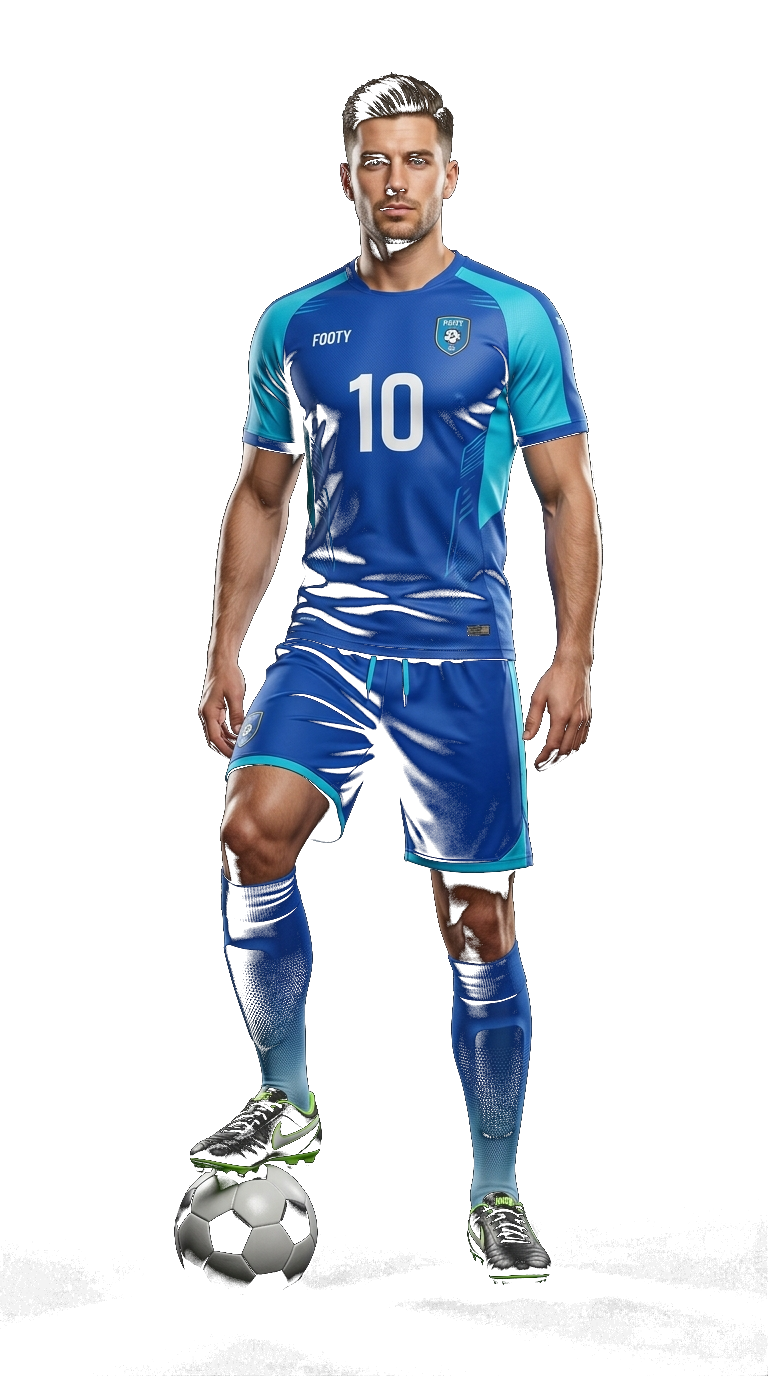
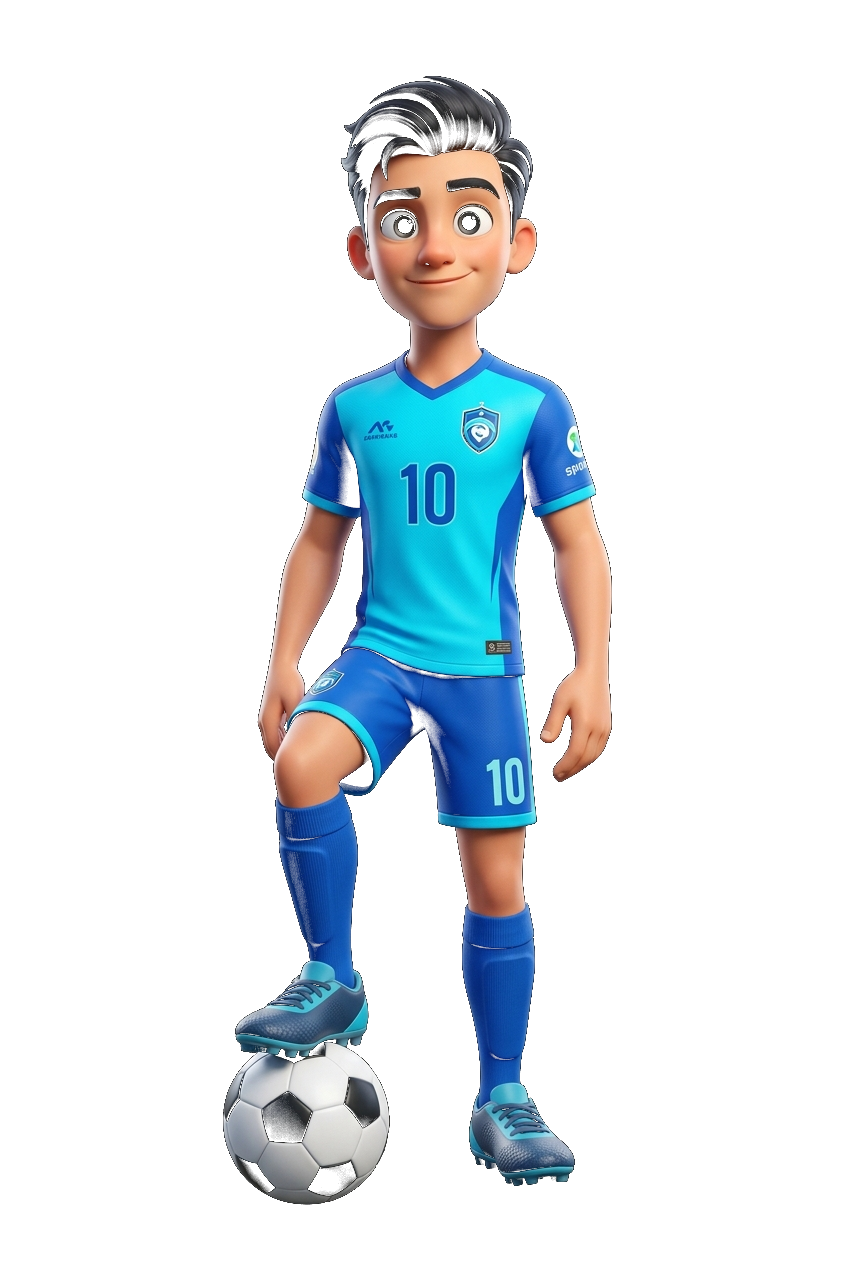
feat(graphics): 3D animated cartoon character cutouts in full body without background for FOOTY and HOOPS

Changed region(s): [[0.2188, 0.0309, 0.7812, 0.9565]]

diff --git a/scripts/process_cartoon_cutouts.js b/scripts/process_cartoon_cutouts.js
@@ -1,0 +1,19 @@
+const fs = require('fs');
+const { extractTransparentPng } = require('./make_transparent_png.js');
+
+const footySrc = 'C:/Users/ASUS/.gemini/antigravity/brain/867d5f43-aefc-4485-baf3-3ce7b3f49ce3/cartoon_footy_fullbody_1792539976257.jpg';
+const hoopsSrc = 'C:/Users/ASUS/.gemini/antigravity/brain/867d5f43-aefc-4485-baf3-3ce7b3f49ce3/cartoon_hoops_fullbody_1792539995463.jpg';
+
+async function run() {
+  console.log('Extracting Cartoon Footy transparent cutout...');
+  await extractTransparentPng(footySrc, 'assets/hero_footy_cartoon.png', true);
+  fs.copyFileSync('assets/hero_footy_cartoon.png', 'assets/hero_footy_real.png');
+
+  console.log('Extracting Cartoon Hoops transparent cutout...');
+  await extractTransparentPng(hoopsSrc, 'assets/hero_hoops_cartoon.png', true);
+  fs.copyFileSync('assets/hero_hoops_cartoon.png', 'assets/hero_hoops_real.png');
+
+  console.log('Finished processing cartoon transparent cutouts!');
+}
+
+run().catch(console.error);
